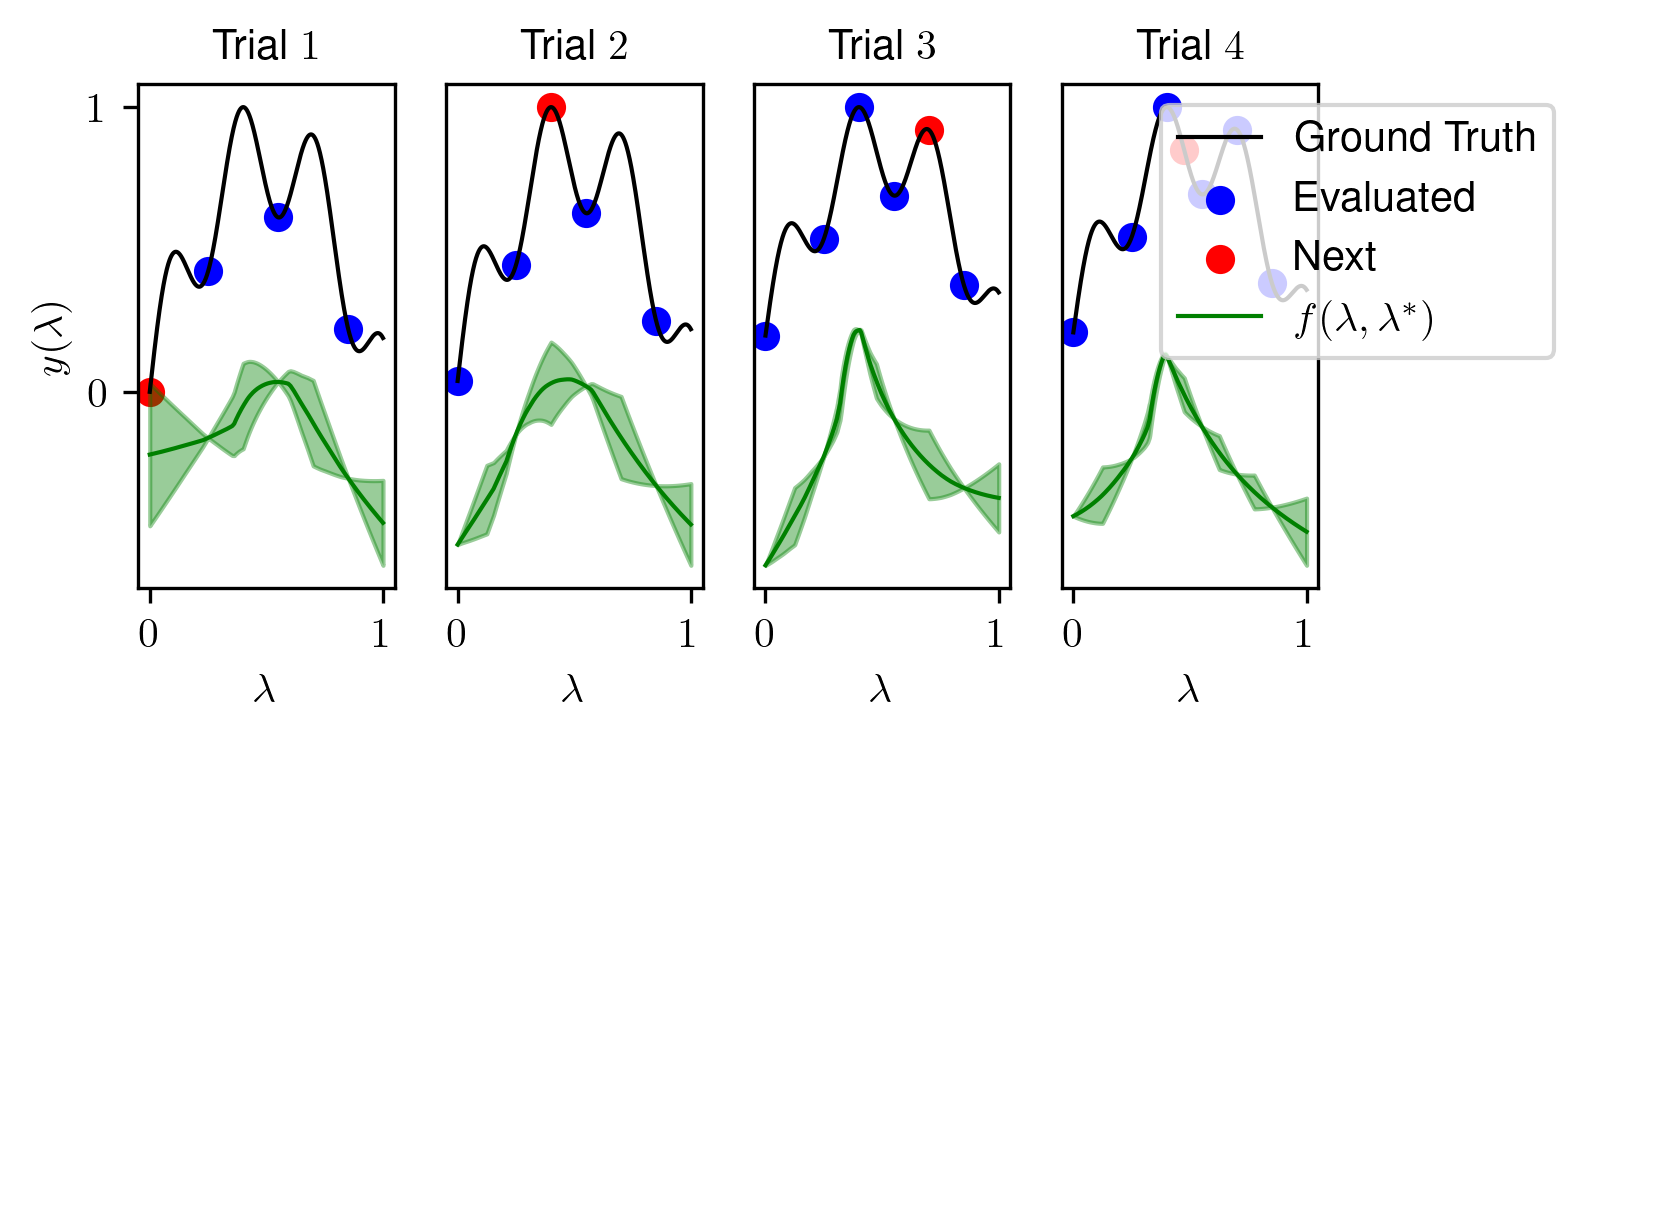
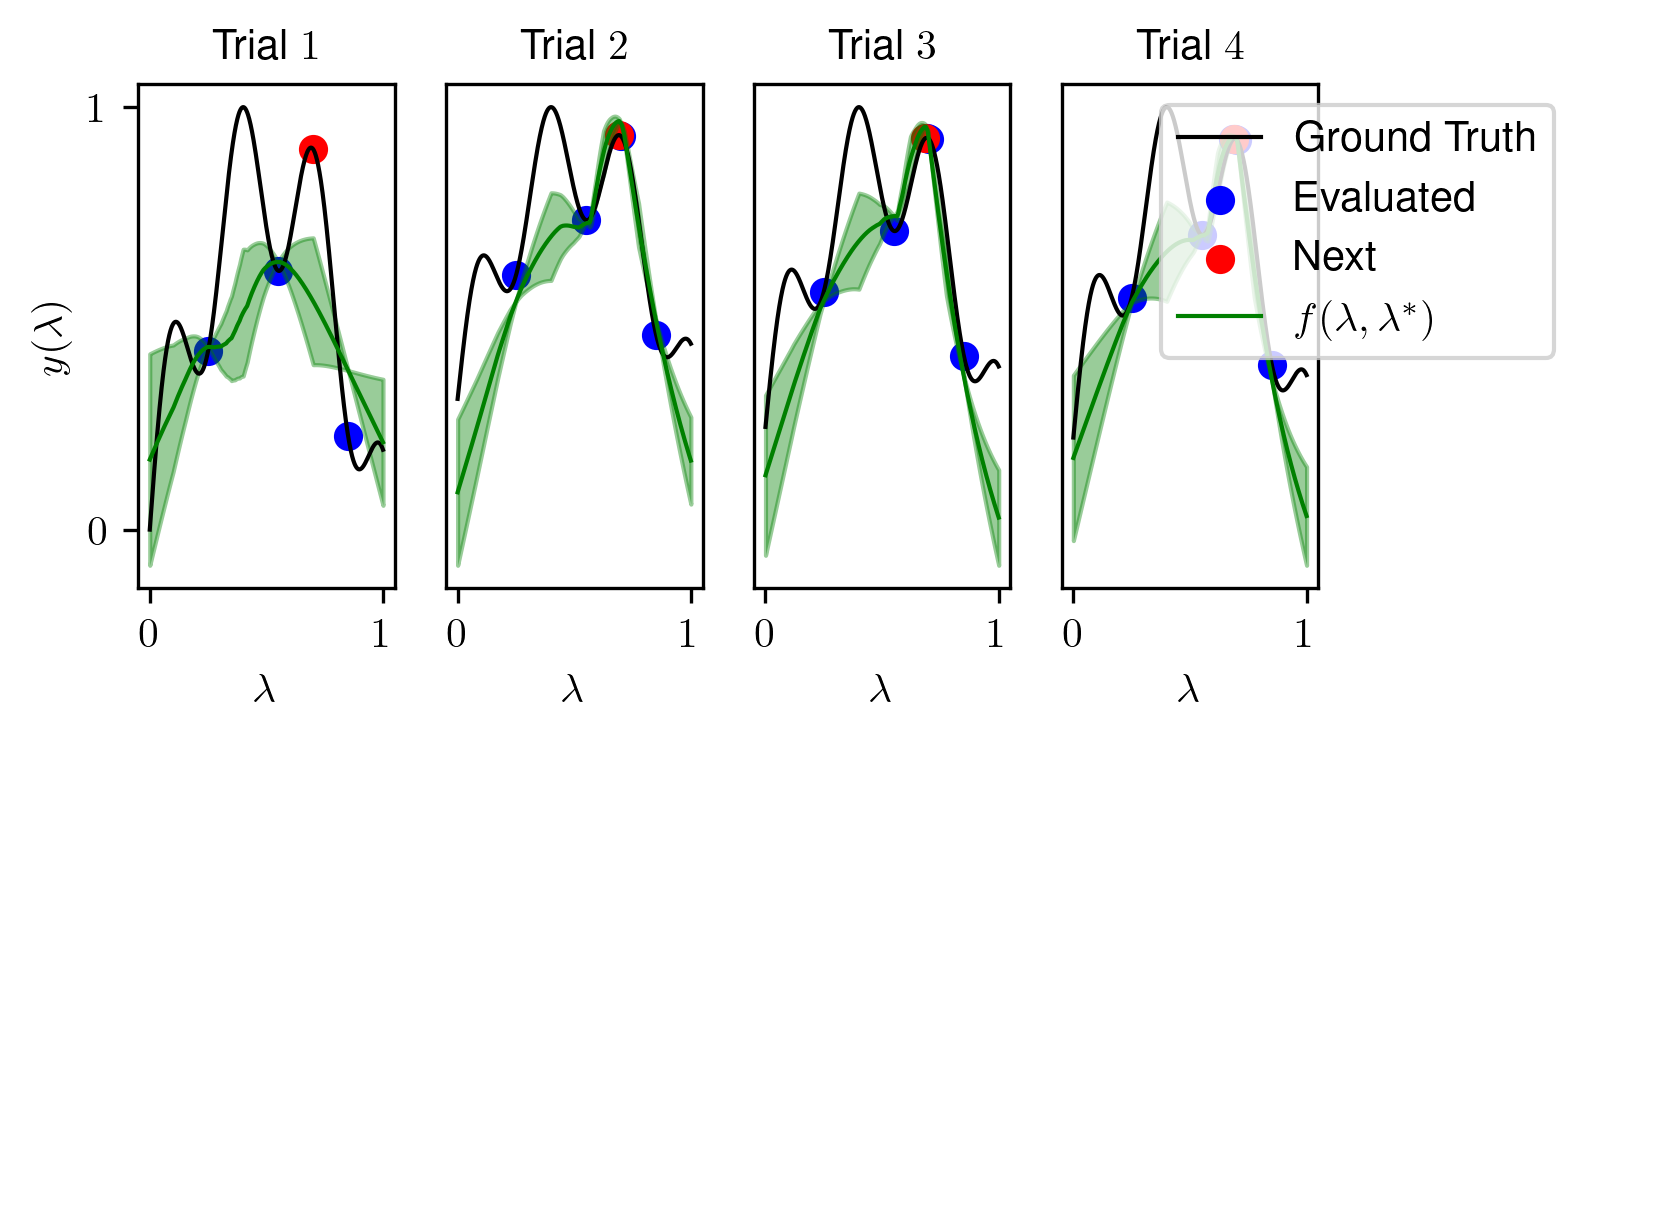
working version

diff --git a/methods/nn_bo_synth.py b/methods/nn_bo_synth.py
@@ -16,9 +16,9 @@ class NeuralNetworkBOSynth():
 
         # the hyper-hyperparameter configurations of the method
         if config is None:
-            self.config = {'is_rank_version': False, 'eta': 0.01, 'optim_iters': 300, 'train_batch_size': 30,
+            self.config = {'is_rank_version': True, 'eta': 0.01, 'optim_iters': 300, 'train_batch_size': 30,
                            'acquisition_batch_size': 1000, 'log_iters': 300, 'hidden_layers_units': [16, 16, 16, 16],
-                           'use_batch_norm': False, 'use_dropout': False, 'dropout_rate': 0.0, 'beta': 5.0}
+                           'use_batch_norm': False, 'use_dropout': False, 'dropout_rate': 0.0, 'beta': 10.0}
         else:
             self.config = config
 

diff --git a/poc/main_poc.py b/poc/main_poc.py
@@ -17,8 +17,8 @@ initial_design_idxs = [250, 550, 850]
 
 # create an smbo method
 config = {'is_rank_version': True, 'eta': 0.01, 'optim_iters': 300, 'train_batch_size': 30,
-          'acquisition_batch_size': 1000, 'log_iters': 300, 'hidden_layers_units': [32, 32, 32],
-          'use_batch_norm': False, 'use_dropout': False, 'dropout_rate': 0.1, 'beta': 5.0}
+          'acquisition_batch_size': 1000, 'log_iters': 300, 'hidden_layers_units': [16, 16, 16, 16],
+          'use_batch_norm': False, 'use_dropout': False, 'dropout_rate': 0.0, 'beta': 5.0}
 
 nn_bo = NeuralNetworkBOSynth(config=config)
 
